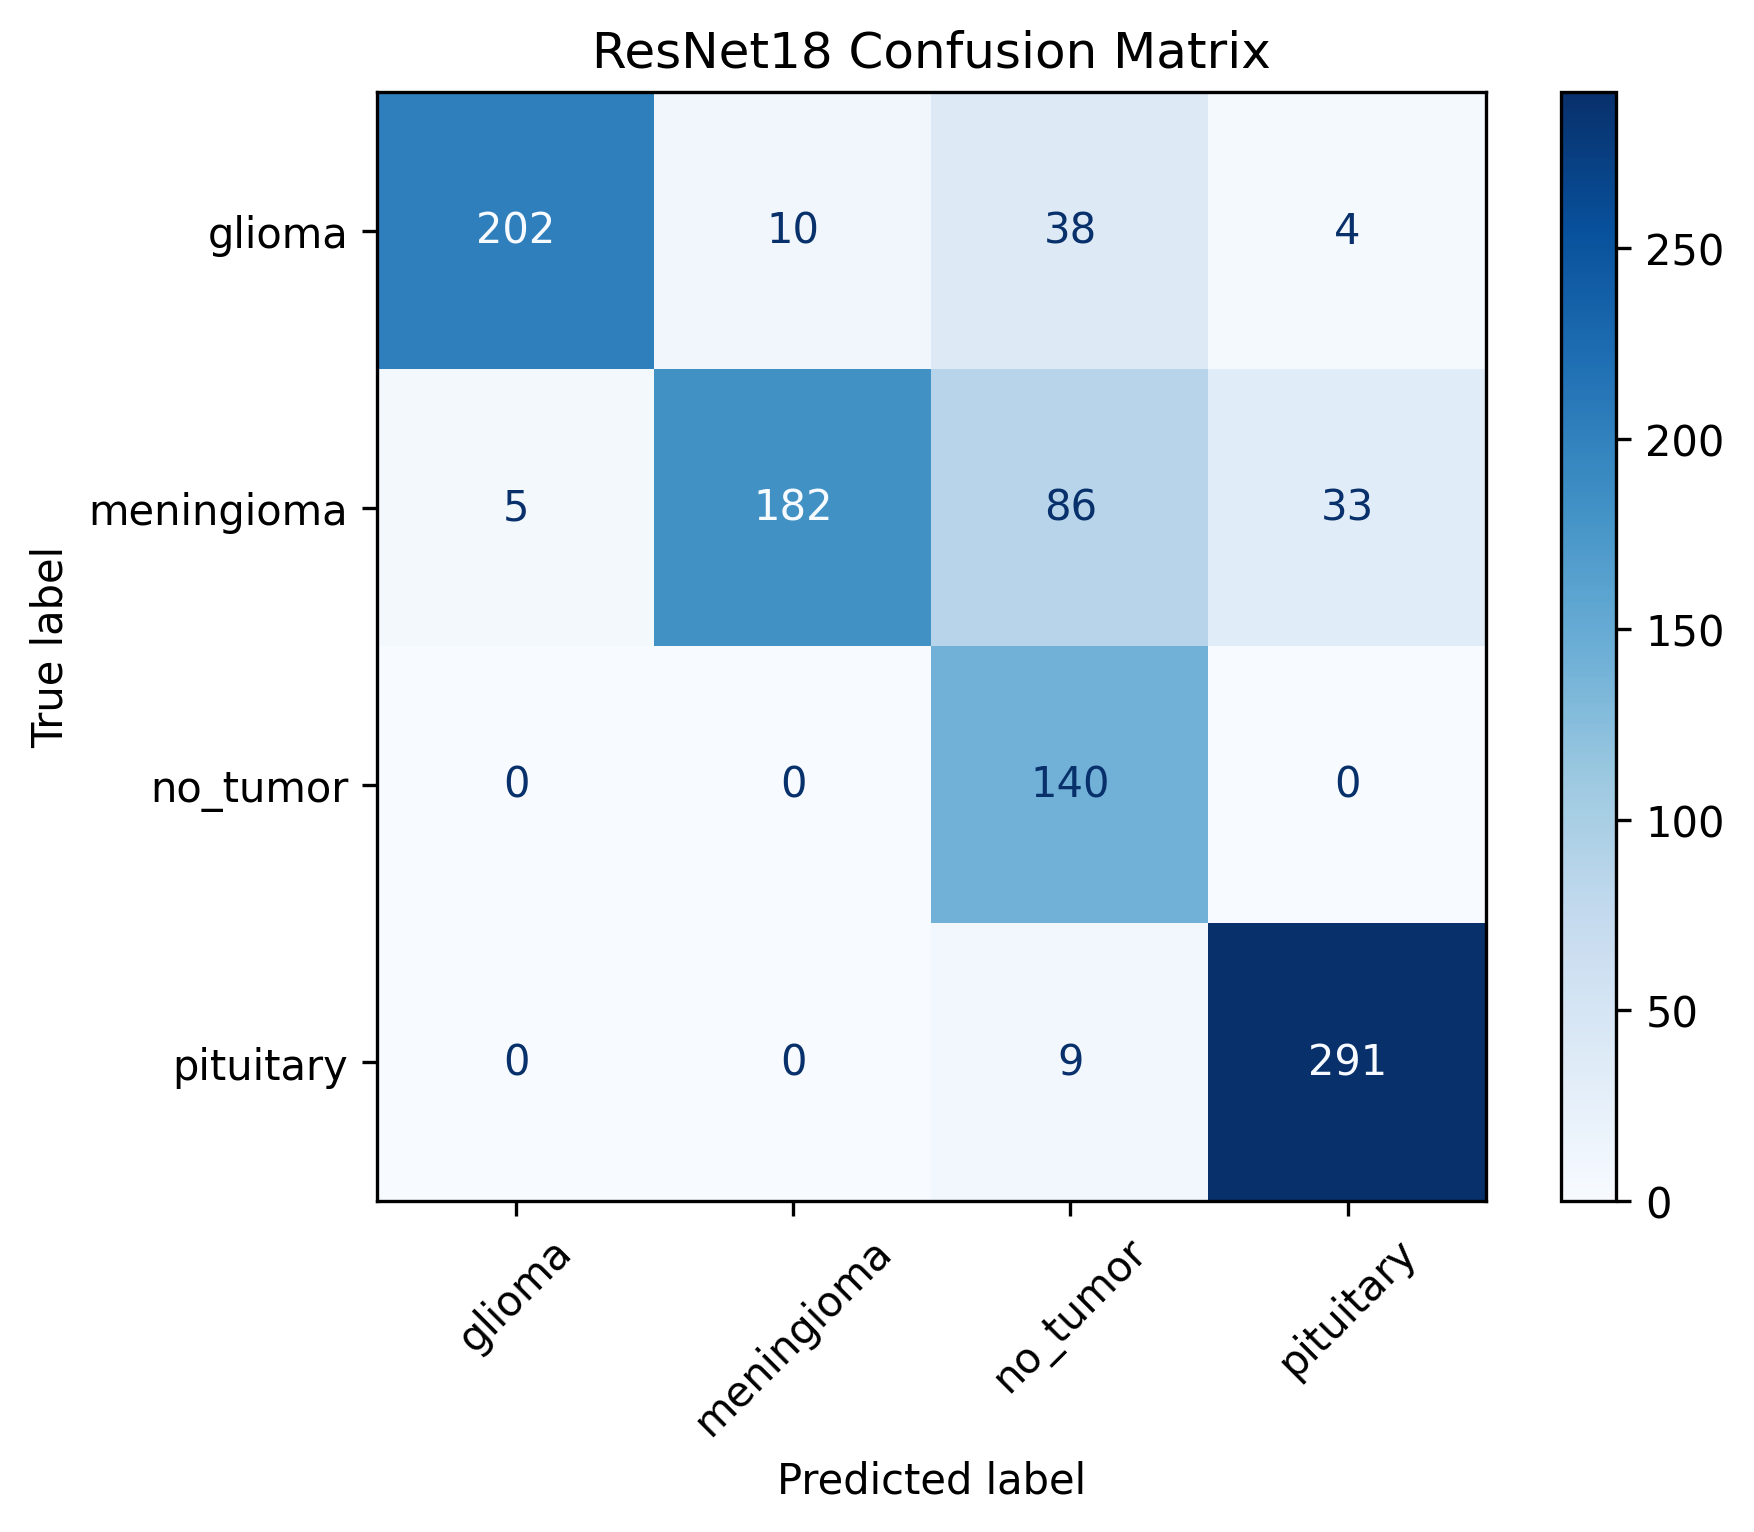
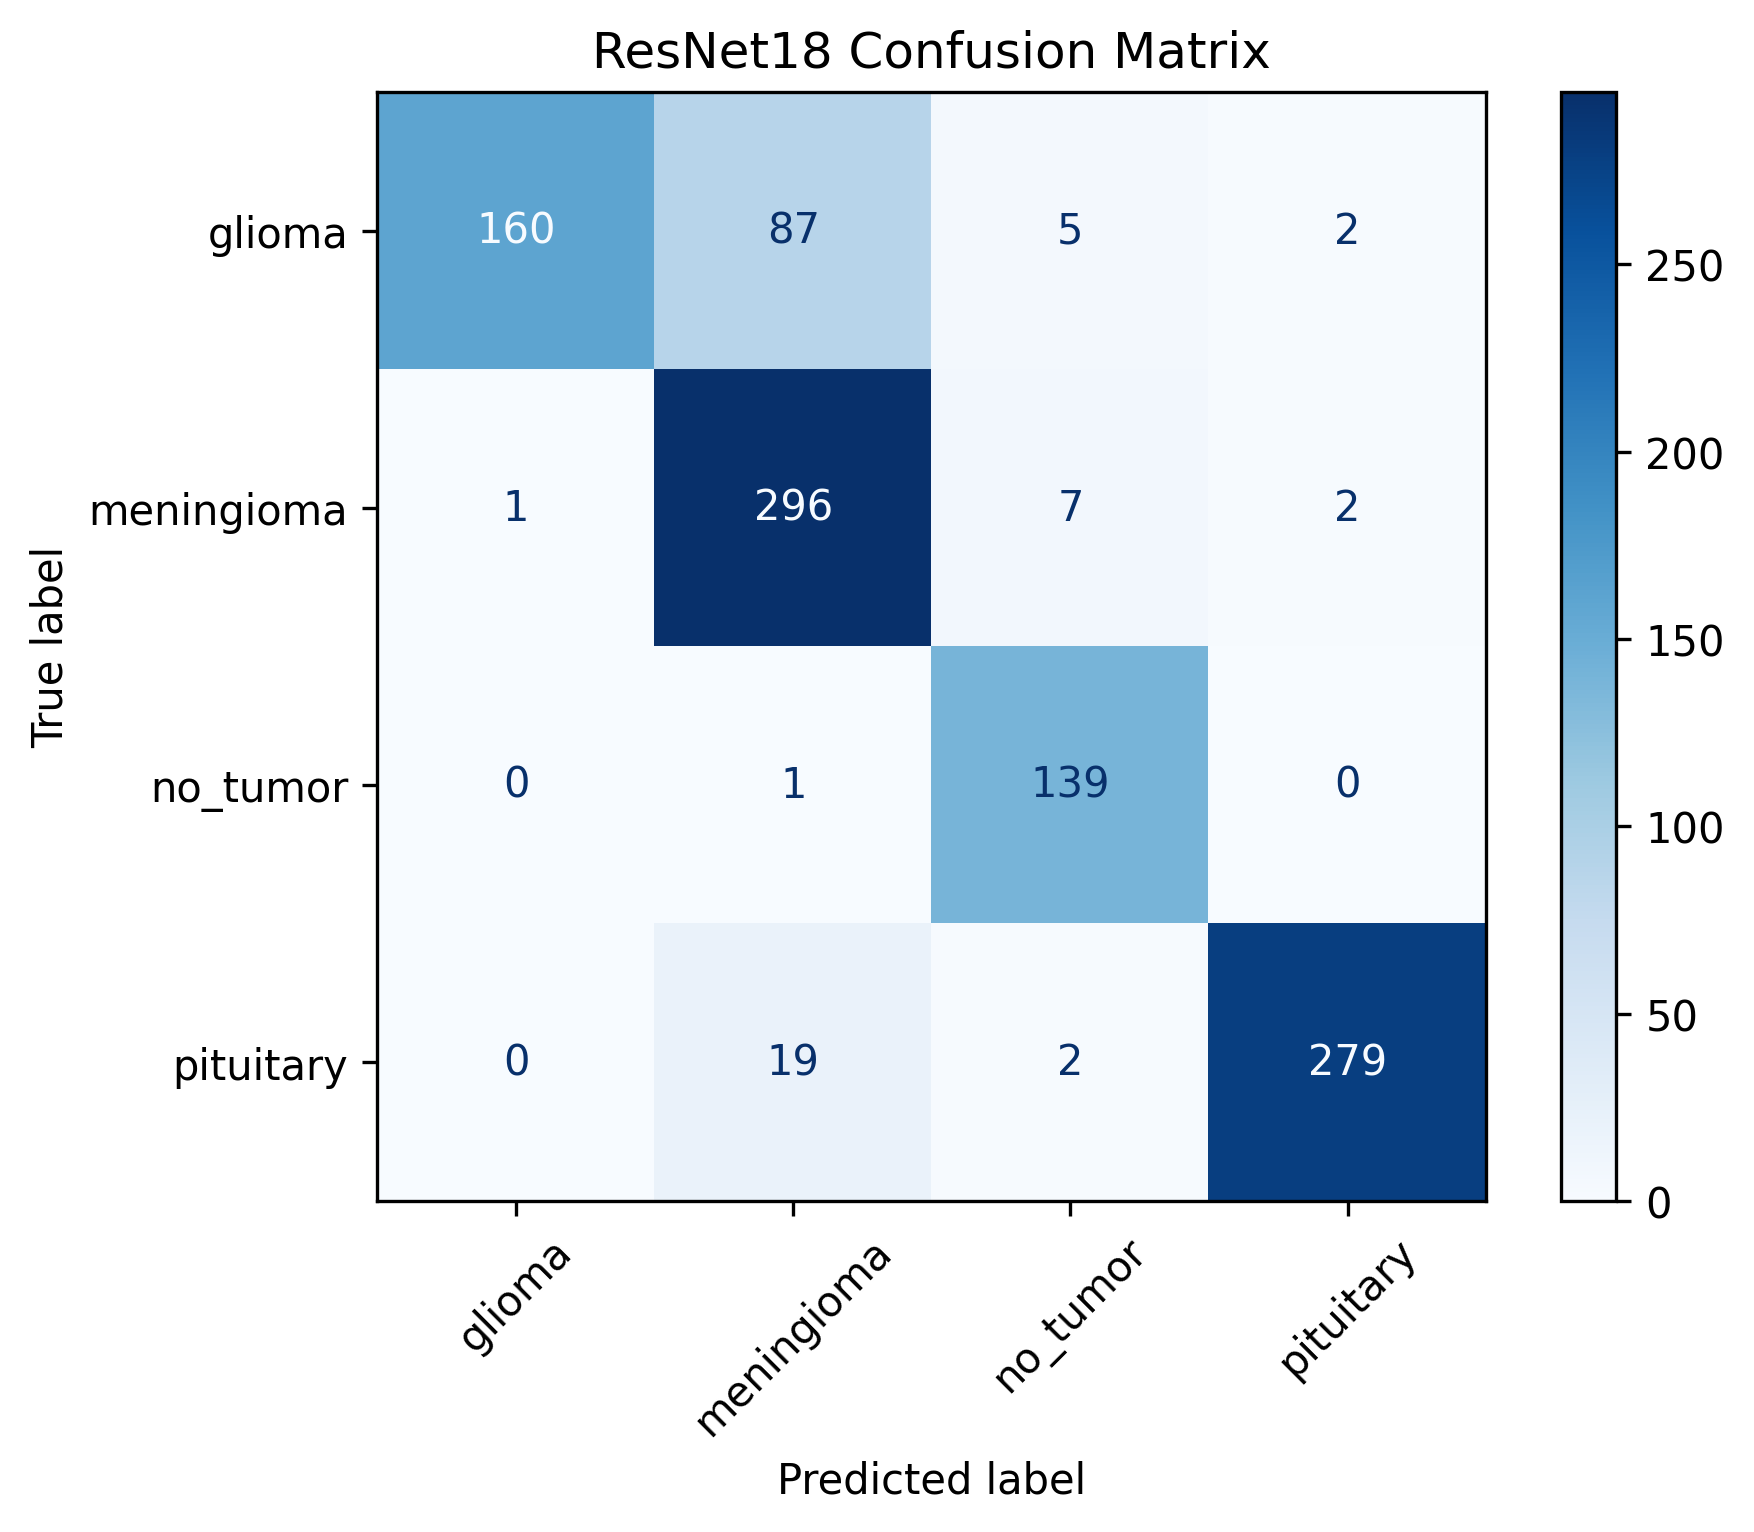
Update READ.md

diff --git a/README.md b/README.md
@@ -80,10 +80,9 @@ Interpretability methods were compared against the ground-truth tumor segmentati
 
 #### Results
 
-| Method    | Average Dice | Average IoU |
-| --------- | -----------: | ----------: |
-| Grad-CAM  |       0.0513 |      0.0268 |
-| Score-CAM |       0.0269 |      0.0141 |
+Method       Average Dice    Average IoU
+Grad-CAM        0.137           0.079
+Score-CAM       0.128           0.077
 
 Grad-CAM achieved higher overlap scores than Score-CAM on the evaluated images. However, both methods produced relatively low Dice and IoU values, suggesting that strong classification performance does not necessarily imply precise localization of tumor regions.
 
